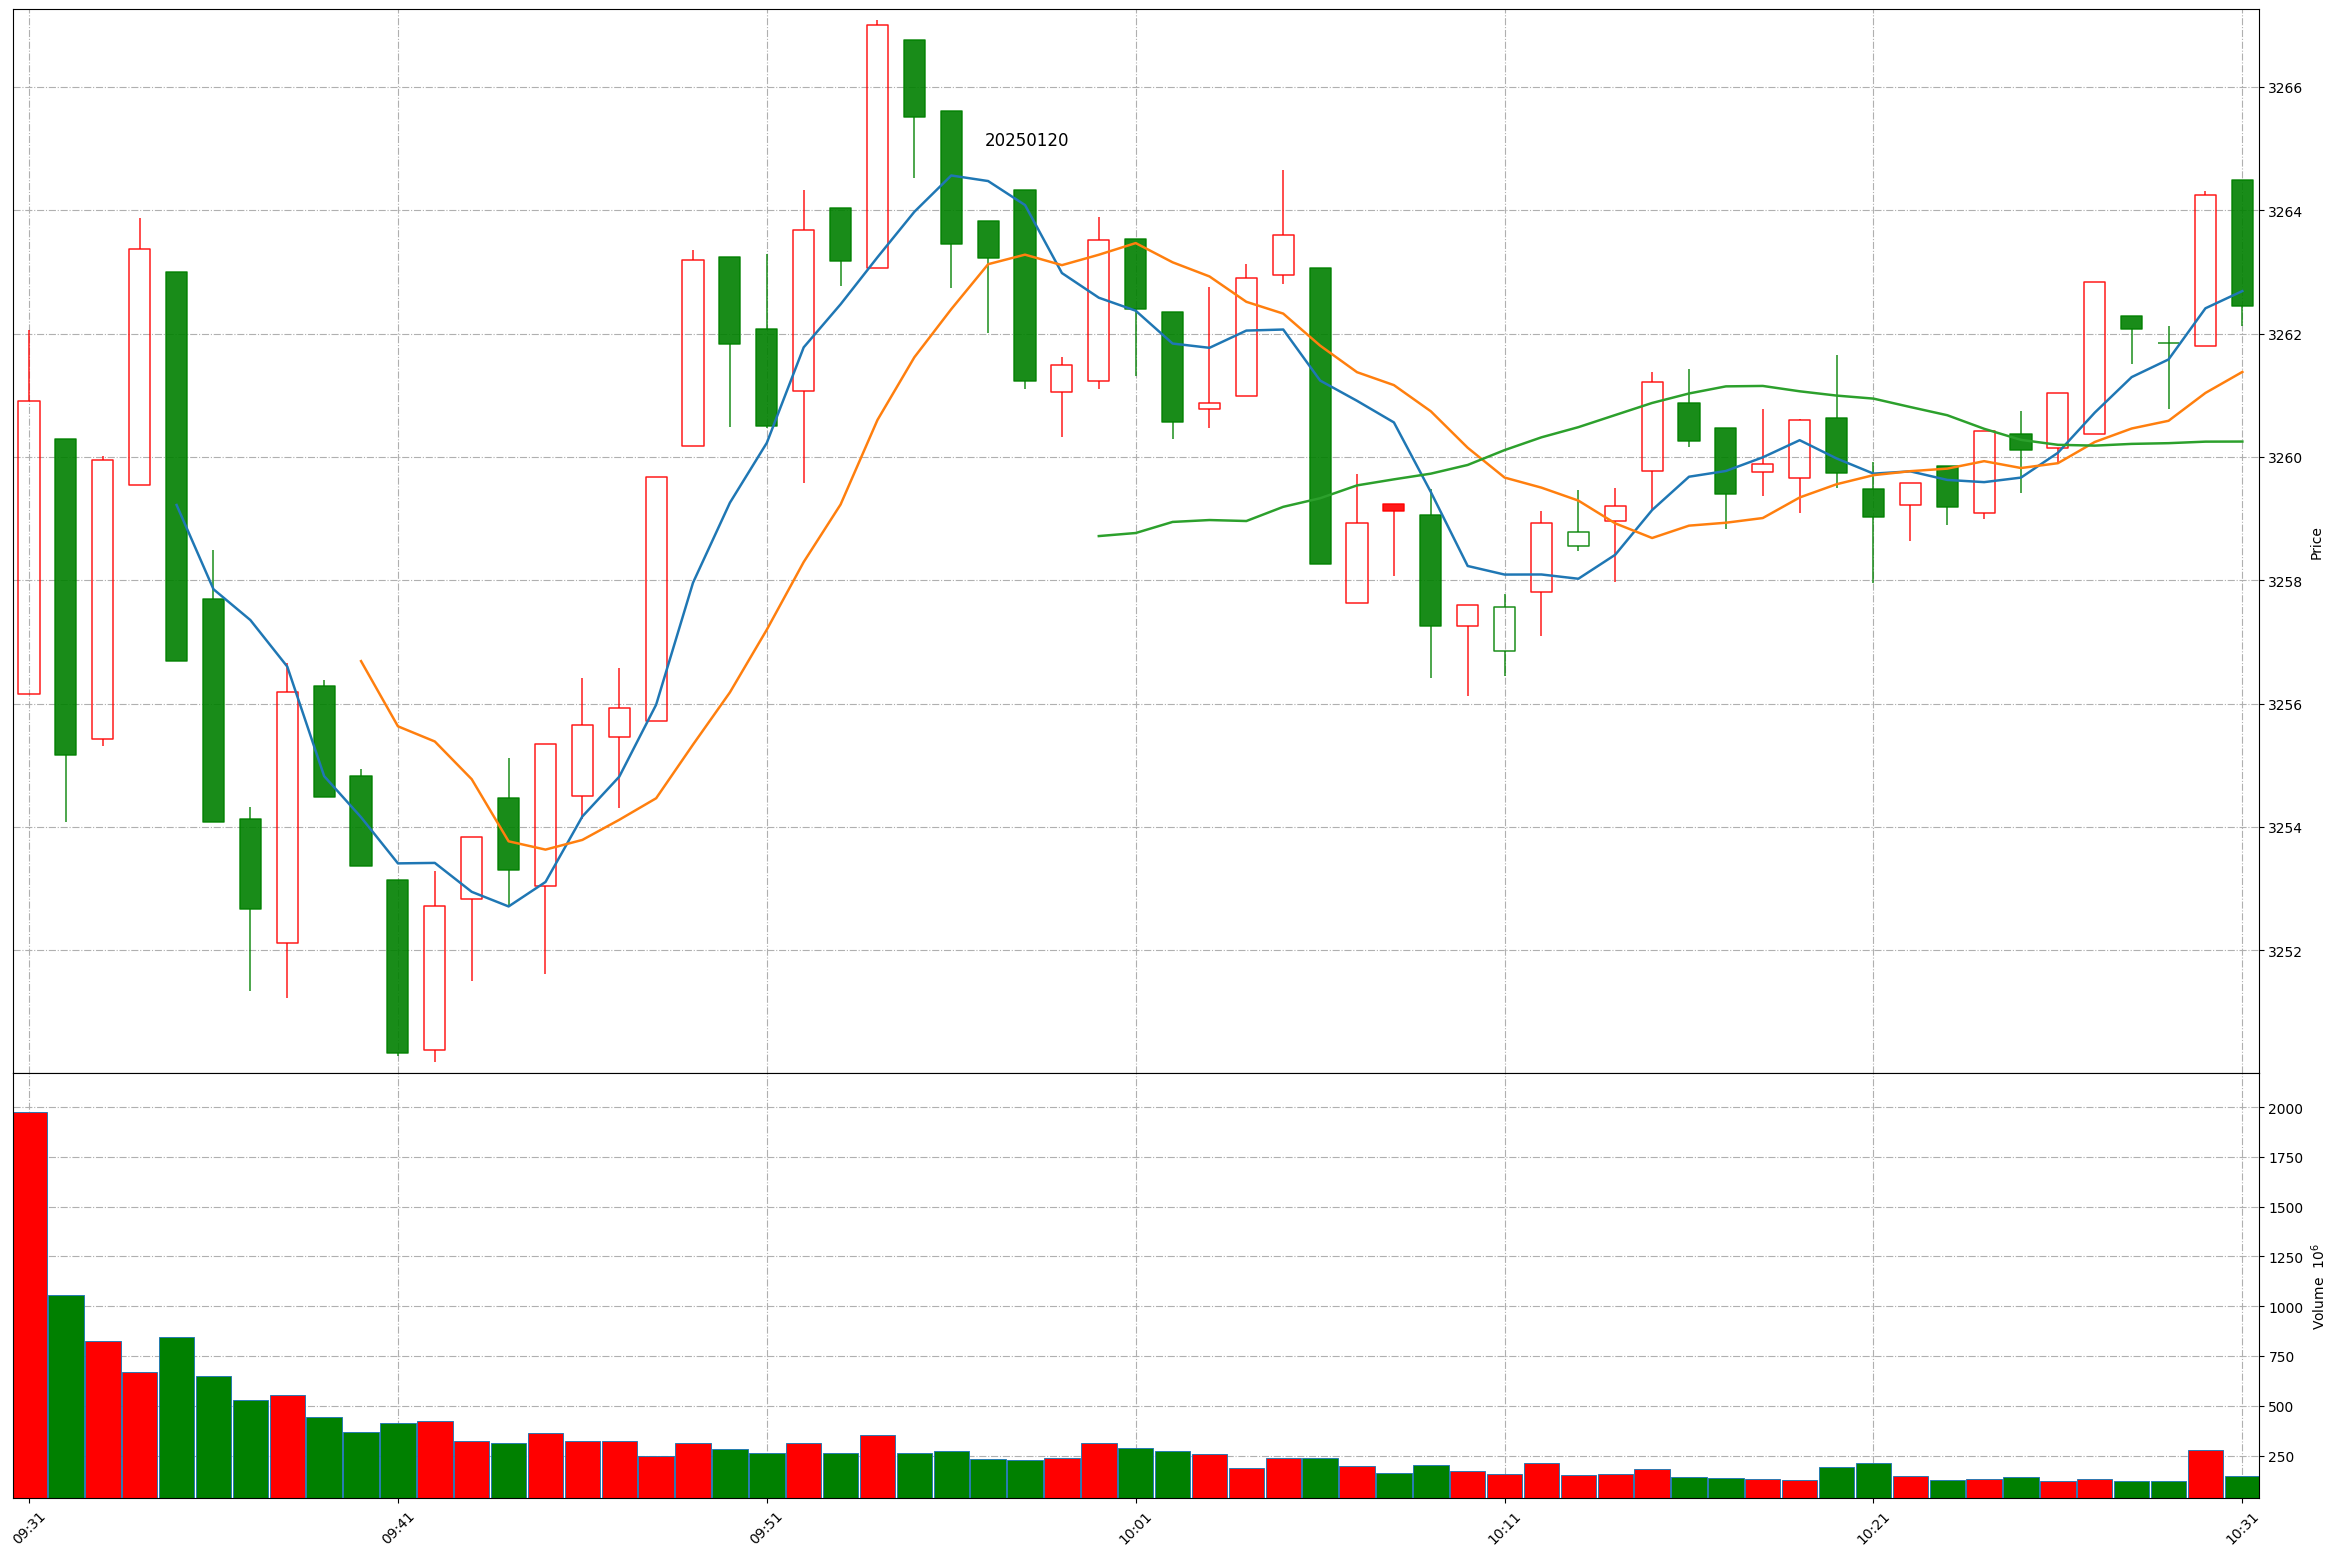
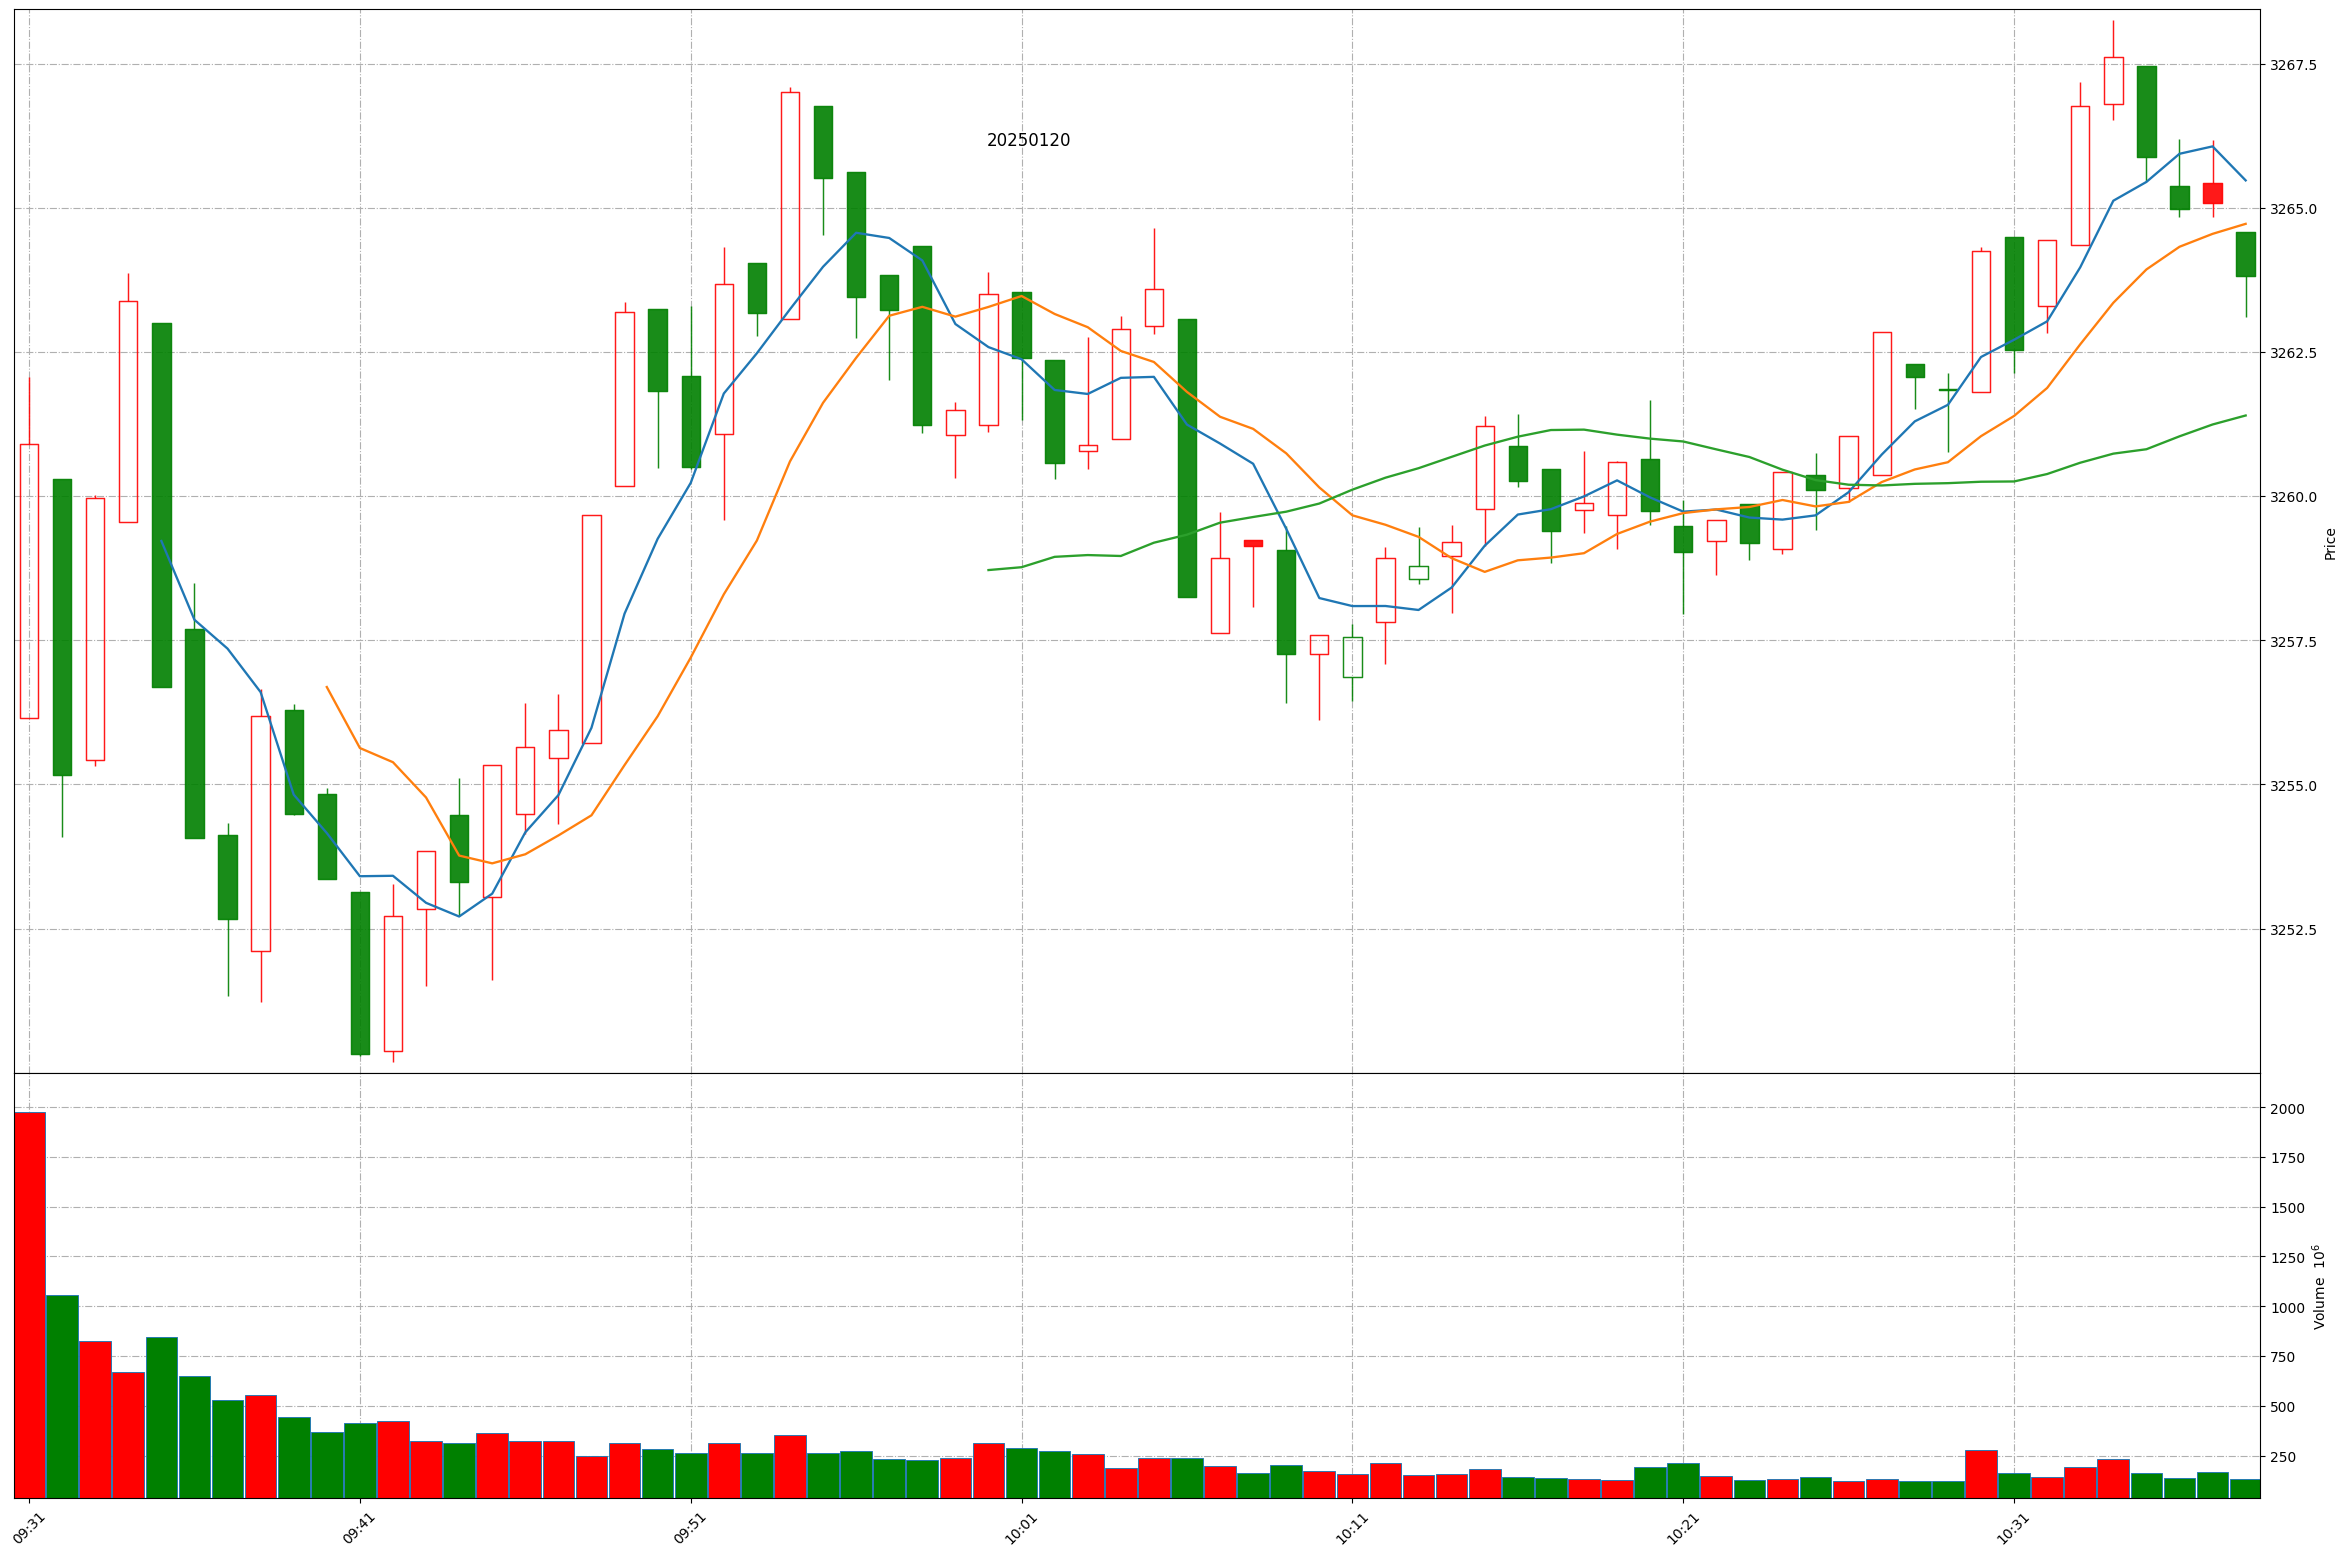
Github action update at 2025-01-20 10:38:03.

diff --git a/README.md b/README.md
@@ -1,11 +1,11 @@
 
 # Daily-A-share-market-quotes 每日 A 股指数（5min 更新）- 20250120
 
-### 上证指数 20250120 10:31
+### 上证指数 20250120 10:38
 ![](./fig/2025/1/20250120-sh000001.png)
 
-### 深证成指 20250120 10:31
+### 深证成指 20250120 10:38
 ![](./fig/2025/1/20250120-sz399001.png)
 
-### 北证50 20250120 10:31
+### 北证50 20250120 10:38
 ![](./fig/2025/1/20250120-bj899050.png)
